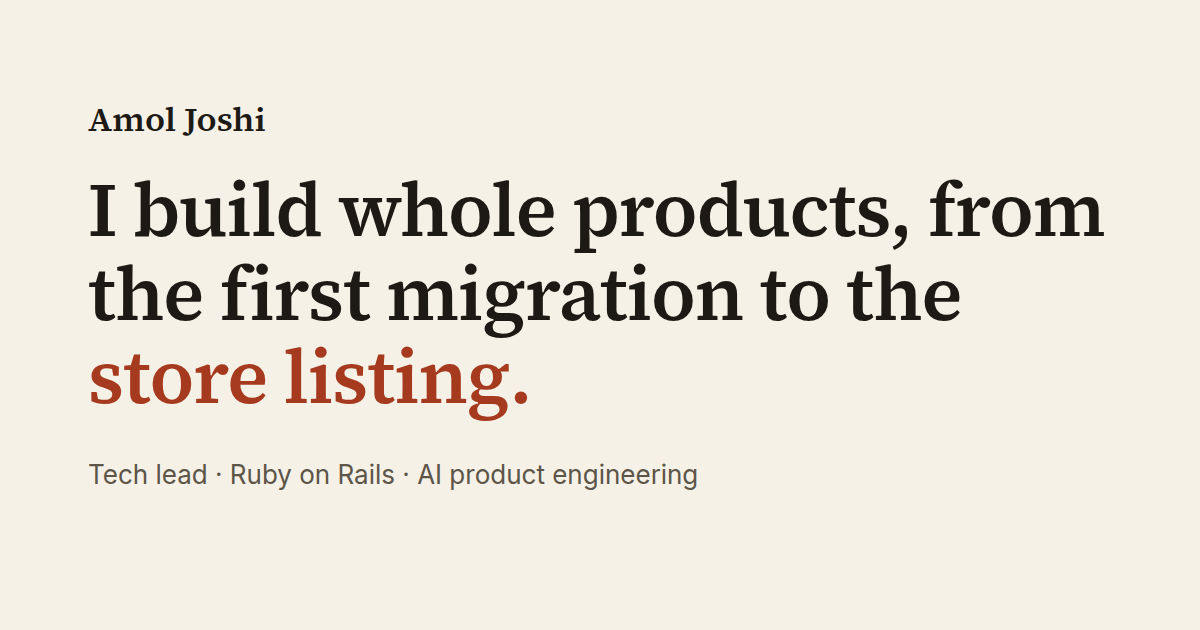
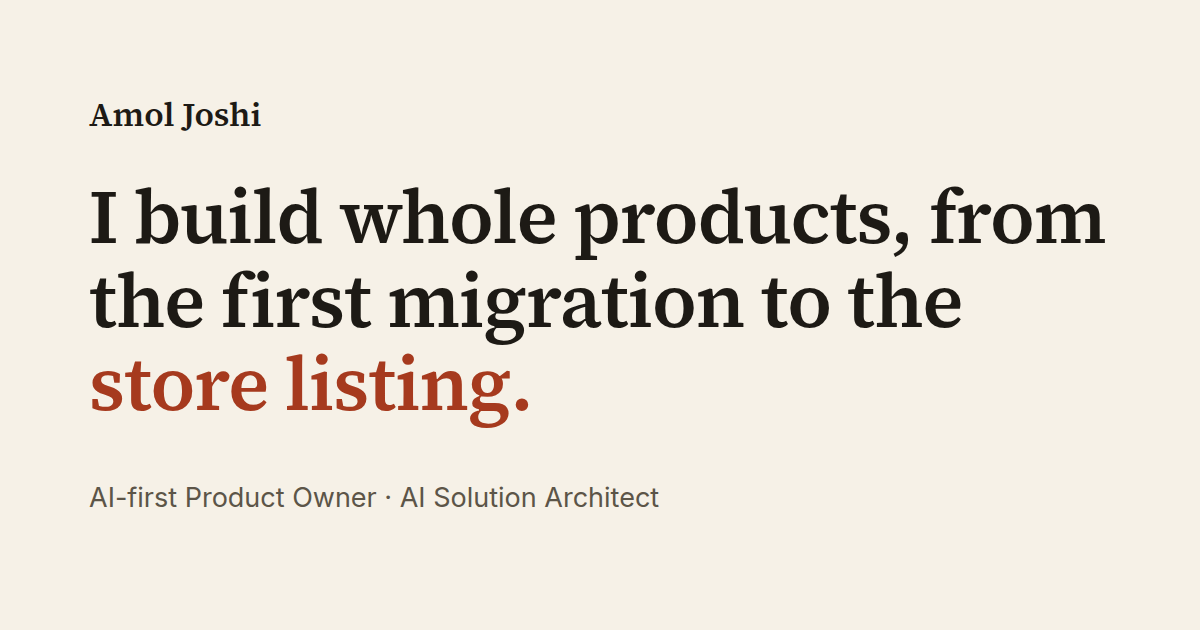
Lead with the current role: AI-first Product Owner / AI Solution Architect

Changed region(s): [[0.0617, 0.2714, 0.925, 0.6937], [0.0617, 0.7238, 0.5858, 0.8143], [0.0617, 0.1508, 0.2158, 0.2111]]

diff --git a/index.html b/index.html
@@ -3,15 +3,15 @@
 <head>
 <meta charset="utf-8">
 <meta name="viewport" content="width=device-width, initial-scale=1">
-<title>Amol Joshi — Tech lead and Rails engineer</title>
-<meta name="description" content="Tech lead and Ruby on Rails engineer in Ratnagiri, India, with 11 years on B2B SaaS, fintech and field-service products, now building AI-enabled web and mobile products.">
+<title>Amol Joshi — AI-first Product Owner and AI Solution Architect</title>
+<meta name="description" content="AI-first product owner and AI solution architect in Ratnagiri, India, designing and shipping AI-enabled web and mobile products end to end, backed by 11 years of engineering and technical leadership on SaaS, fintech and field-service platforms.">
 <meta name="theme-color" content="#f6f1e7" media="(prefers-color-scheme: light)">
 <meta name="theme-color" content="#16130f" media="(prefers-color-scheme: dark)">
 <link rel="canonical" href="https://amolmjoshi93.github.io/">
 <link rel="icon" href="assets/favicon.svg" type="image/svg+xml">
 <meta property="og:type" content="website">
-<meta property="og:title" content="Amol Joshi — Tech lead and Rails engineer">
-<meta property="og:description" content="Web platforms and mobile apps, built and shipped end to end. Rails, Vue, React Native.">
+<meta property="og:title" content="Amol Joshi — AI-first Product Owner and AI Solution Architect">
+<meta property="og:description" content="AI-enabled web platforms and mobile apps, designed, architected and shipped end to end.">
 <meta property="og:url" content="https://amolmjoshi93.github.io/">
 <meta property="og:image" content="https://amolmjoshi93.github.io/assets/og.png">
 <meta name="twitter:card" content="summary_large_image">
@@ -20,7 +20,7 @@
 <link rel="stylesheet" href="assets/style.css">
 <script>document.documentElement.classList.add("js")</script>
 <script type="application/ld+json">
-{"@context":"https://schema.org","@type":"Person","name":"Amol Joshi","jobTitle":"Tech Lead / Principal Software Engineer","url":"https://amolmjoshi93.github.io/","address":{"@type":"PostalAddress","addressLocality":"Ratnagiri","addressCountry":"IN"},"sameAs":["https://www.linkedin.com/in/amolmjoshi93/","https://github.com/amolmjoshi93"]}
+{"@context":"https://schema.org","@type":"Person","name":"Amol Joshi","jobTitle":"AI-first Product Owner / AI Solution Architect","url":"https://amolmjoshi93.github.io/","address":{"@type":"PostalAddress","addressLocality":"Ratnagiri","addressCountry":"IN"},"sameAs":["https://www.linkedin.com/in/amolmjoshi93/","https://github.com/amolmjoshi93"]}
 </script>
 </head>
 <body>
@@ -40,9 +40,9 @@
 
 <main id="top">
   <section class="hero wrap">
-    <p class="eyebrow">Tech lead · Rails · AI product engineering · Ratnagiri, India · Open to remote or relocation</p>
+    <p class="eyebrow">AI-first Product Owner · AI Solution Architect · Ratnagiri, India · Open to remote or relocation</p>
     <h1>I build whole products, from the first migration to the <em>store&nbsp;listing.</em></h1>
-    <p class="lede">I’m a Rails engineer and tech lead with 11 years on B2B SaaS, fintech and field-service products, including leading a team of 10 at UtilizeCore. Now I build and ship my own web and mobile products full time, with AI coding agents as part of my daily workflow.</p>
+    <p class="lede">I’m an AI-first product owner and AI solution architect. I design, architect and ship AI-enabled web and mobile products end to end, from the product decisions and system design to LLM features in production and the store listing, with AI coding agents in my daily workflow. Behind that are 11 years of engineering and technical leadership on B2B SaaS, fintech and field-service products, including leading a team of 10 at UtilizeCore.</p>
     <dl class="facts">
       <div><dt>Years in software</dt><dd>11</dd></div>
       <div><dt>Products below</dt><dd>10</dd></div>
@@ -204,9 +204,9 @@
       <li class="job">
         <p class="when">Jul 2026 – Present</p>
         <div>
-          <h3>Independent Product Engineer</h3>
+          <h3>AI-first Product Owner / AI Solution Architect</h3>
           <p class="kicker">Self-employed, Ratnagiri</p>
-          <ul class="points"><li>Building and shipping the web and mobile products above full time.</li></ul>
+          <ul class="points"><li>Owning and architecting the AI-enabled web and mobile products above, from product decisions and system design to production and the app stores.</li></ul>
         </div>
       </li>
       <li class="job">
